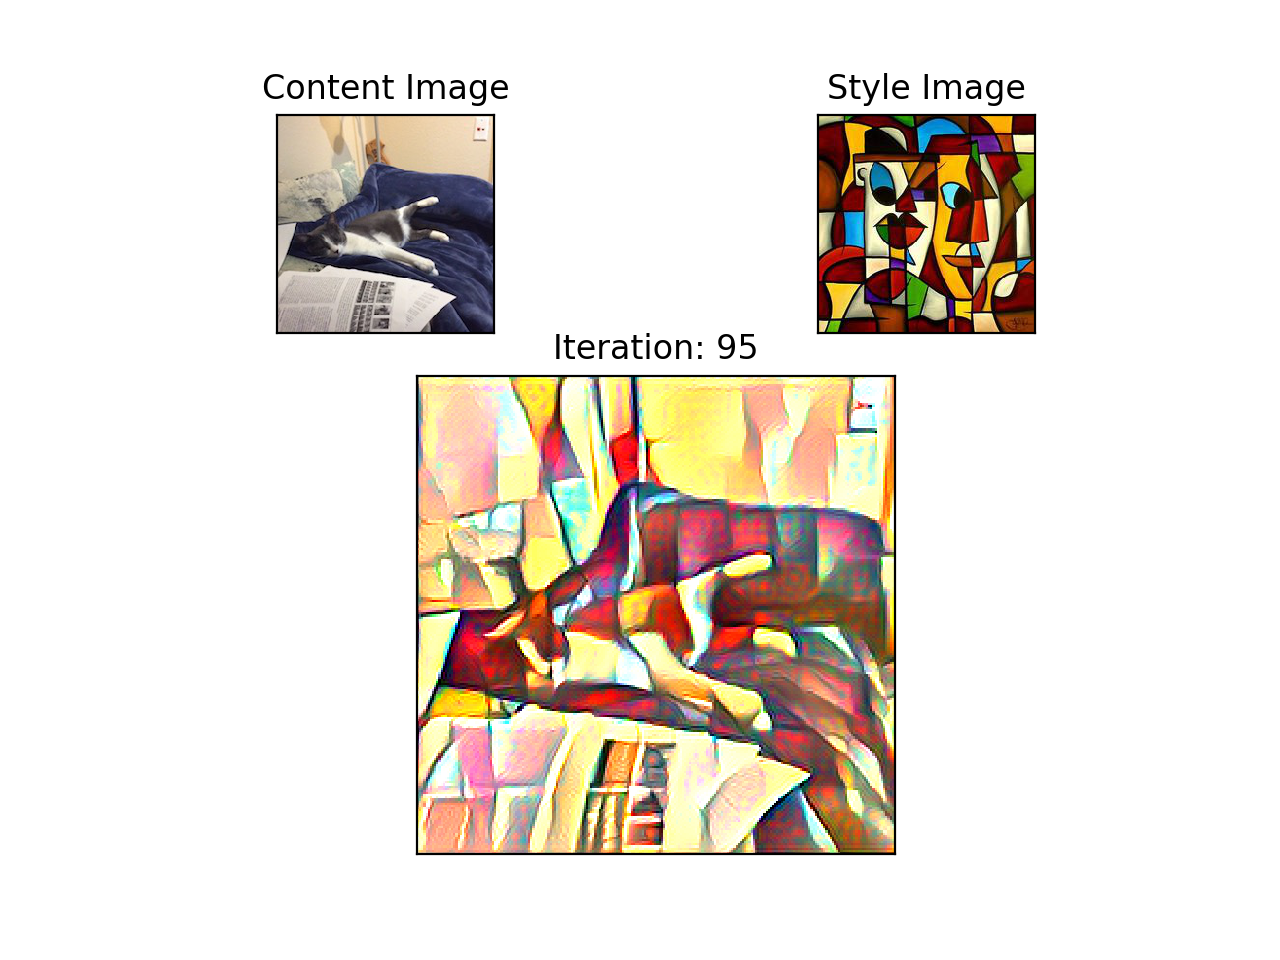
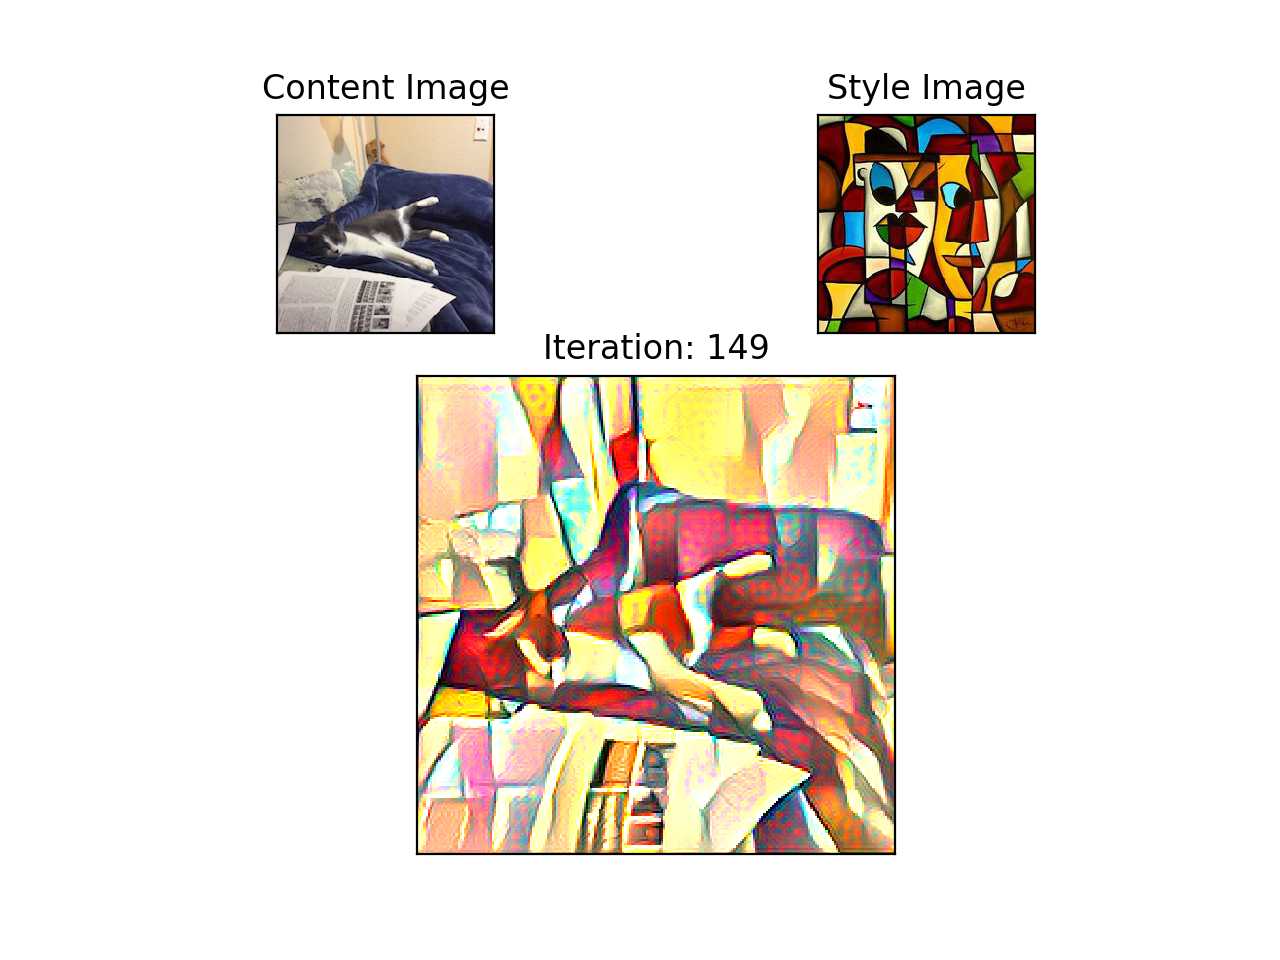
add smoothing loss to style transfer

Changed region(s): [[0.3125, 0.3438, 0.7188, 0.9062], [0.5625, 0.4062, 0.6875, 0.4688]]

diff --git a/visualizing_cnn/style_transfer_deep_dream.py b/visualizing_cnn/style_transfer_deep_dream.py
@@ -51,6 +51,25 @@ def gram_matrix(x_op):
     return K.batch_dot(x_flatten_t_op, x_flatten_op)
 
 
+def get_smooth_loss(x_op, coeff=4):
+    _, h, w, _ = x_op.shape.as_list()
+
+    top_left = x_op[:,:h-2,:w-2,:]
+    top_right = x_op[:,:h-2,2:w,:]
+
+    bot_left = x_op[:,2:h,:w-2,:]
+    bot_right = x_op[:,2:h,2:w,:]
+
+    mid = x_op[:,1:h-1,1:w-1,:]
+
+    loss = 0.0
+
+    for neighbor in [top_left, top_right, bot_left, bot_right]:
+        loss += K.mean(K.pow(mid - neighbor, coeff))
+
+    return 1.0 / 4.0 * K.sum(loss)
+
+
 def get_content_loss(c, vgg, layer):
     activation = vgg.get_layer(layer).output
     get_activation = K.function([vgg.layers[0].input], [activation])
@@ -87,16 +106,18 @@ def get_total_loss(c, s, vgg, n=5, alpha=0.5, beta=0.05):
     return alpha * content_loss + beta * style_loss
 
 
-def get_deep_dream_loss(c, vgg, alpha=1.0, beta=2.0, content_layer='input_1'):
+def get_deep_dream_loss(c, vgg, alpha=1000.0, beta=1.0, gamma=1.0,
+        content_layer='input_1'):
     layer = vgg.layers[-1]
 
     d = layer.output.shape.as_list()[-1]
     d = np.random.randint(d)
 
+    smooth_loss = get_smooth_loss(layer.output)
     content_loss = get_content_loss(c, vgg, content_layer)
     deep_dream_loss = -K.sum(K.square(layer.output[:,:,:,d]))
 
-    return alpha * content_loss + beta * deep_dream_loss
+    return alpha * smooth_loss + beta * content_loss + gamma * deep_dream_loss
 
 
 def get_gradient(x_op, loss_op):
@@ -166,4 +187,4 @@ if __name__ == '__main__':
     plt.show(block=False)
 
     deep_dream('content.jpg')
-    style_transfer('content.jpg', 'cubism1.jpg')
+    # style_transfer('content.jpg', 'starry_night.jpg')
